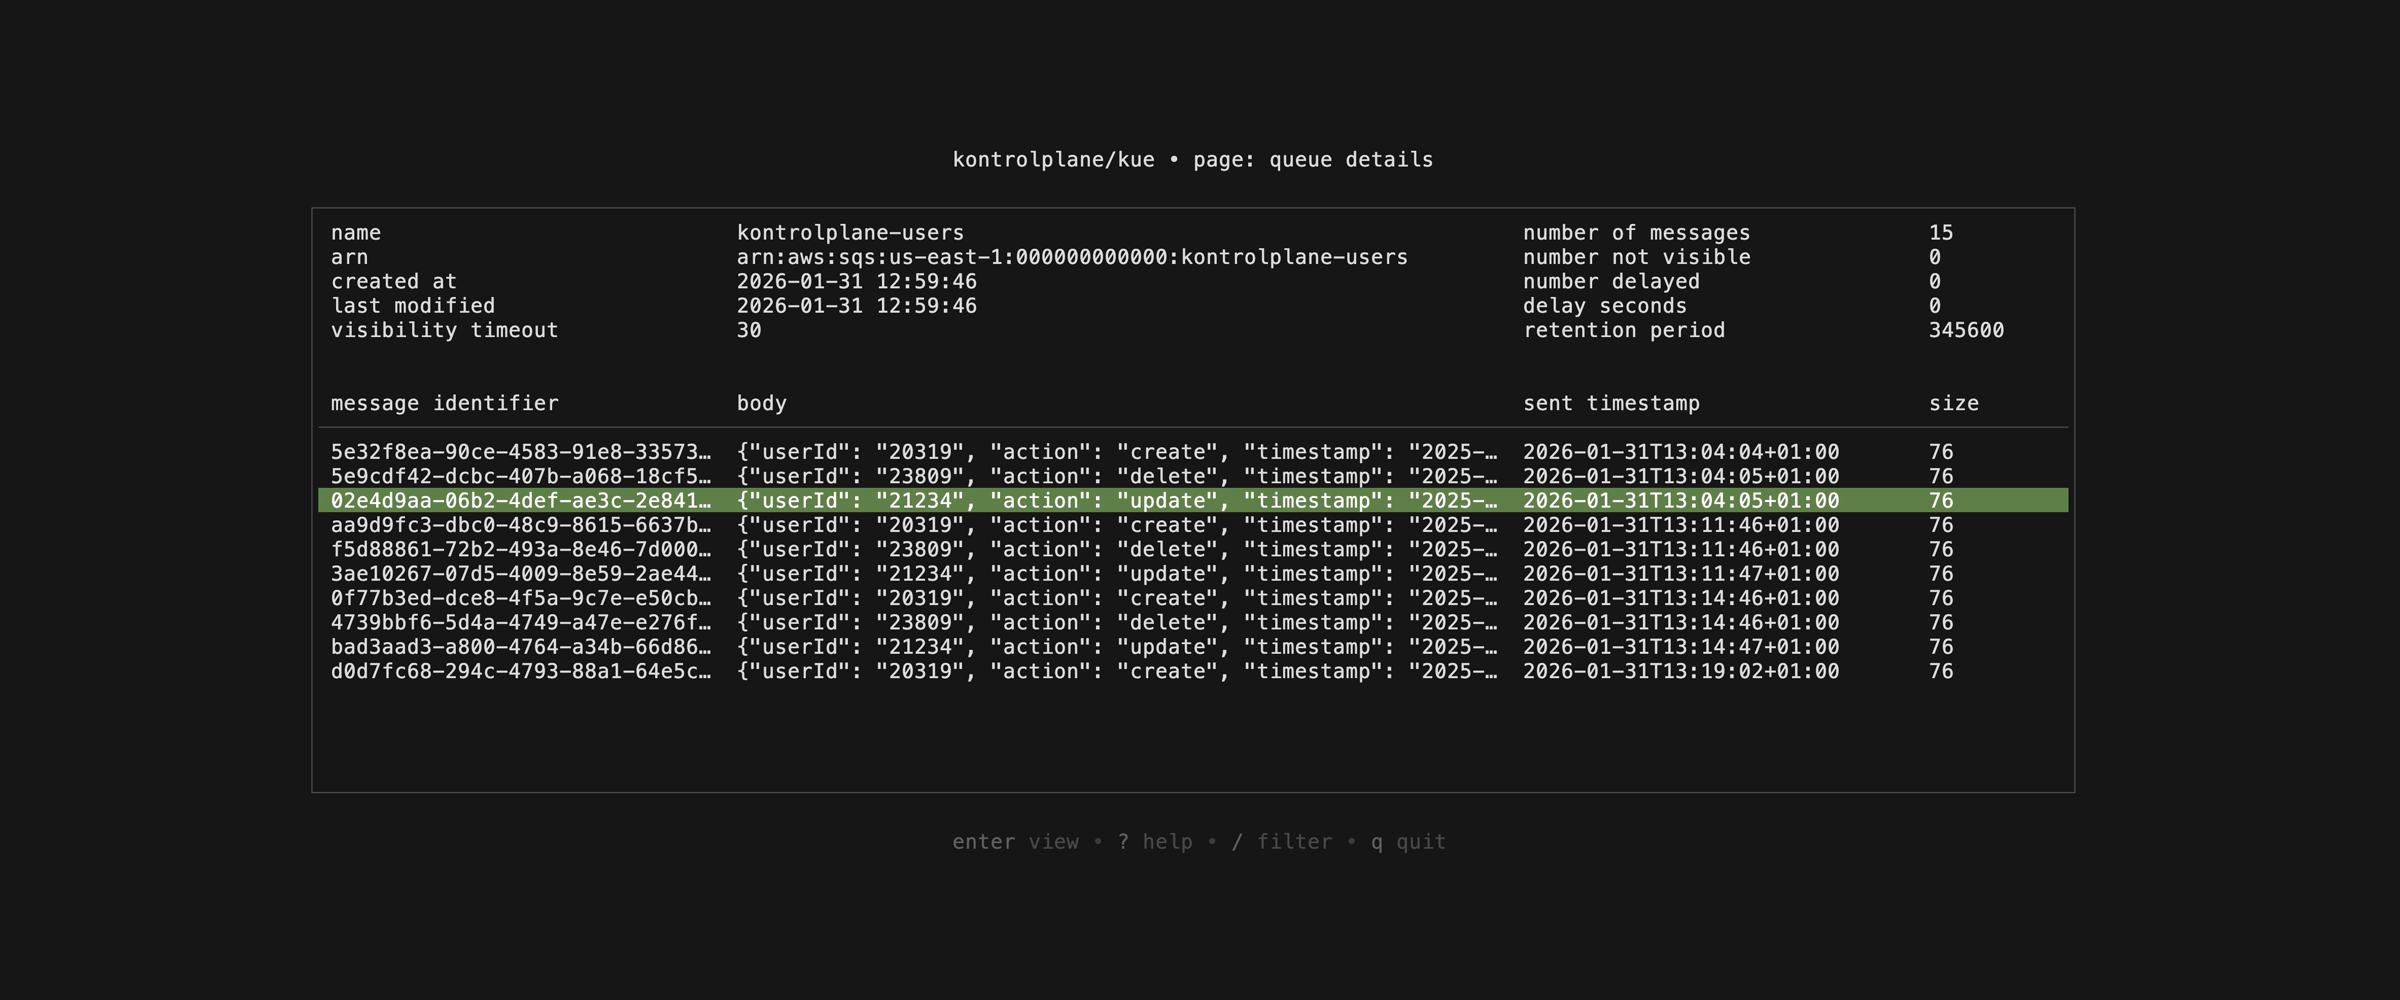
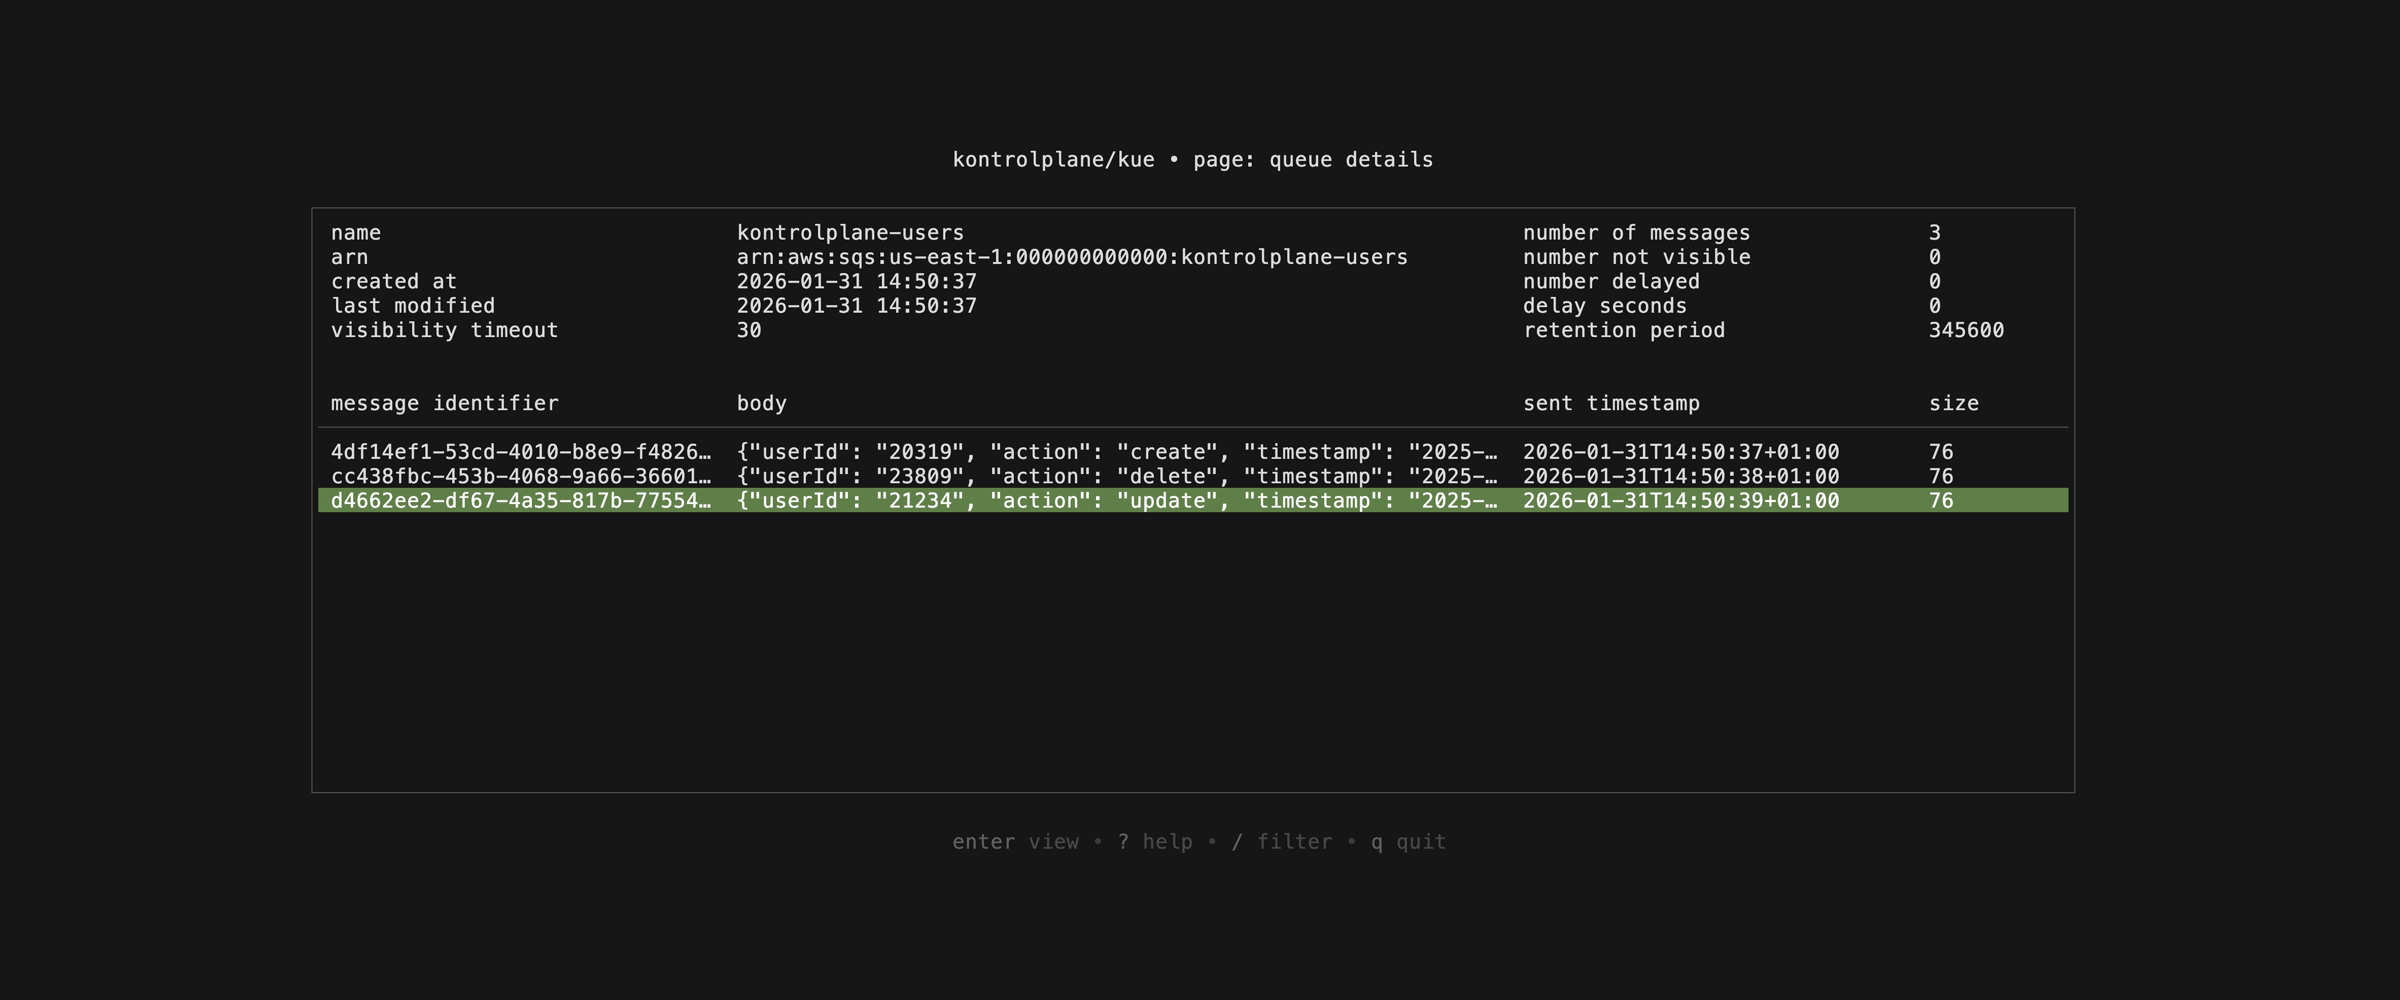
feat: add screenshots for queue creation

Changed region(s): [[0.125, 0.434, 0.7812, 0.682], [0.375, 0.279, 0.4062, 0.31]]

diff --git a/README.md b/README.md
@@ -45,6 +45,22 @@
   <img width="2400" alt="kue queue details" src="./assets/pages/queue/details.png">
 </p>
 
+`queue creation`
+<p align="center">
+  <img width="2400" alt="kue queue creation 01" src="./assets/pages/queue/creation-01.png">
+</p>
+
+<p align="center">
+  <img width="2400" alt="kue queue creation 02" src="./assets/pages/queue/creation-02.png">
+</p>
+
+<p align="center">
+  <img width="2400" alt="kue queue creation 03" src="./assets/pages/queue/creation-03.png">
+</p>
+
+<p align="center">
+  <img width="2400" alt="kue queue creation 04" src="./assets/pages/queue/creation-04.png">
+</p>
 
 `queue delete`
 <p align="center">
